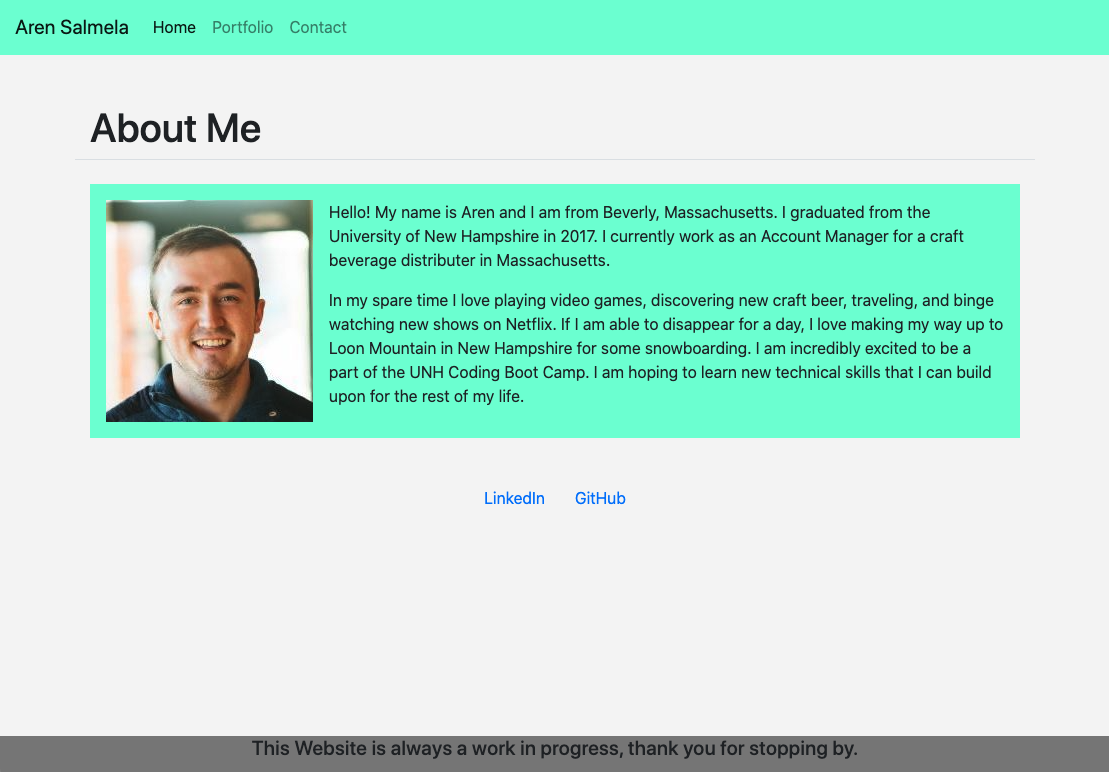
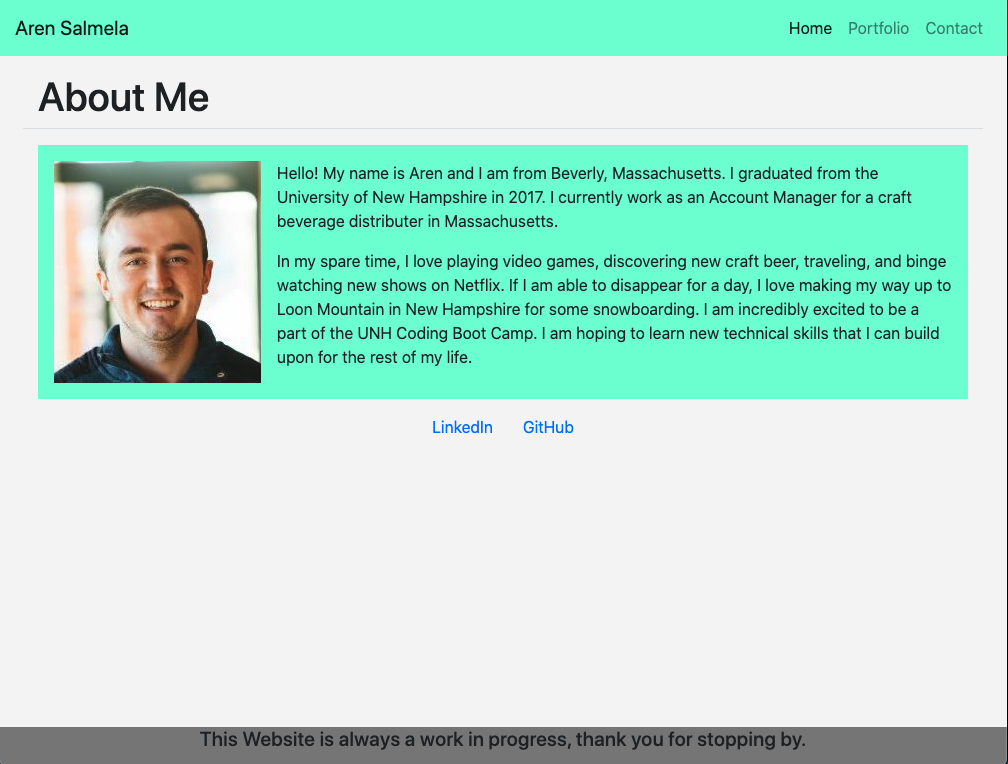
Fixed padding on about me image and added updated screen shots to readme.

diff --git a/portfolio.html b/portfolio.html
@@ -75,7 +75,7 @@
 
     <!--Header Section-->
     <section>
-      <div class="container border-bottom mt-3">
+      <div class="container border-bottom pt-3">
         <div class="page-header">
           <h1>Image Portfolio</h1>
           <h5>Here are some pictures from my trip to Barcelona.</h5>

diff --git a/index.html b/index.html
@@ -89,7 +89,7 @@
           <div class="col">
             <img
               src="Assets/Images/Head Shot.jpg"
-              class="float-left mb-3 mr-3"
+              class="float-left mb-2 mr-3"
               alt="Aren Salmela Head Shot"
             />
             <p>

diff --git a/README.md b/README.md
@@ -1,6 +1,6 @@
 # ResponsivePortfolio
 
-## Collaborated with https://github.com/Ewager1 and https://github.com/ReindeerCode
+### Collaborated with https://github.com/Ewager1 and https://github.com/ReindeerCode
 
 ## Project Link
 
